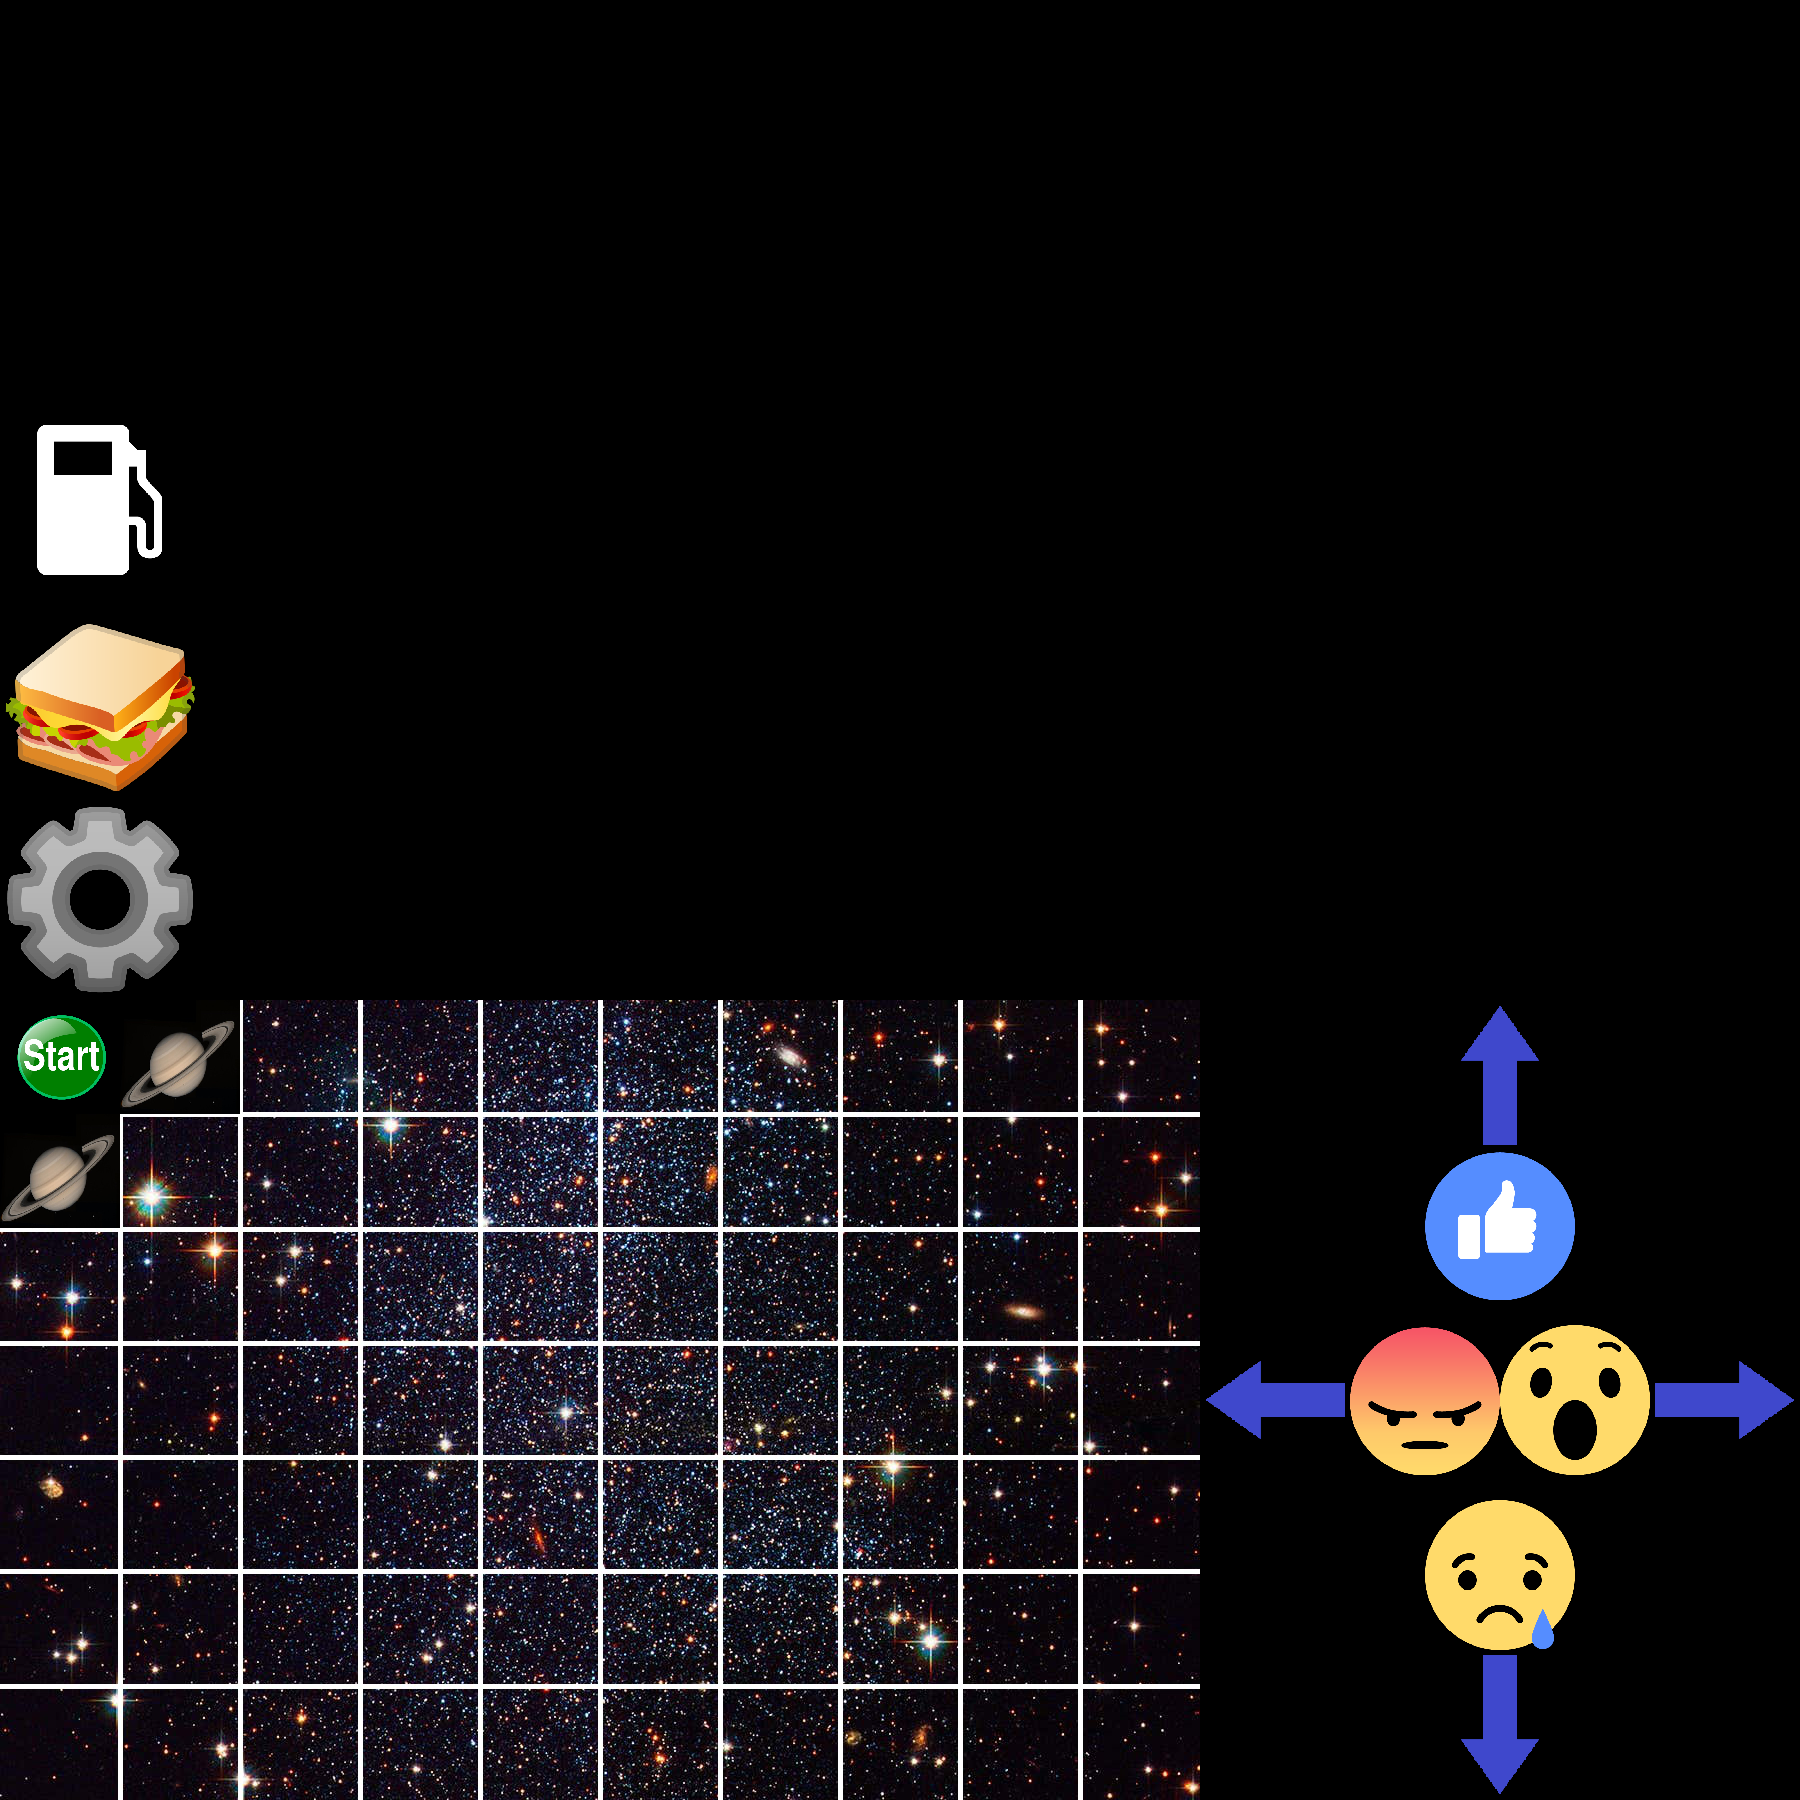
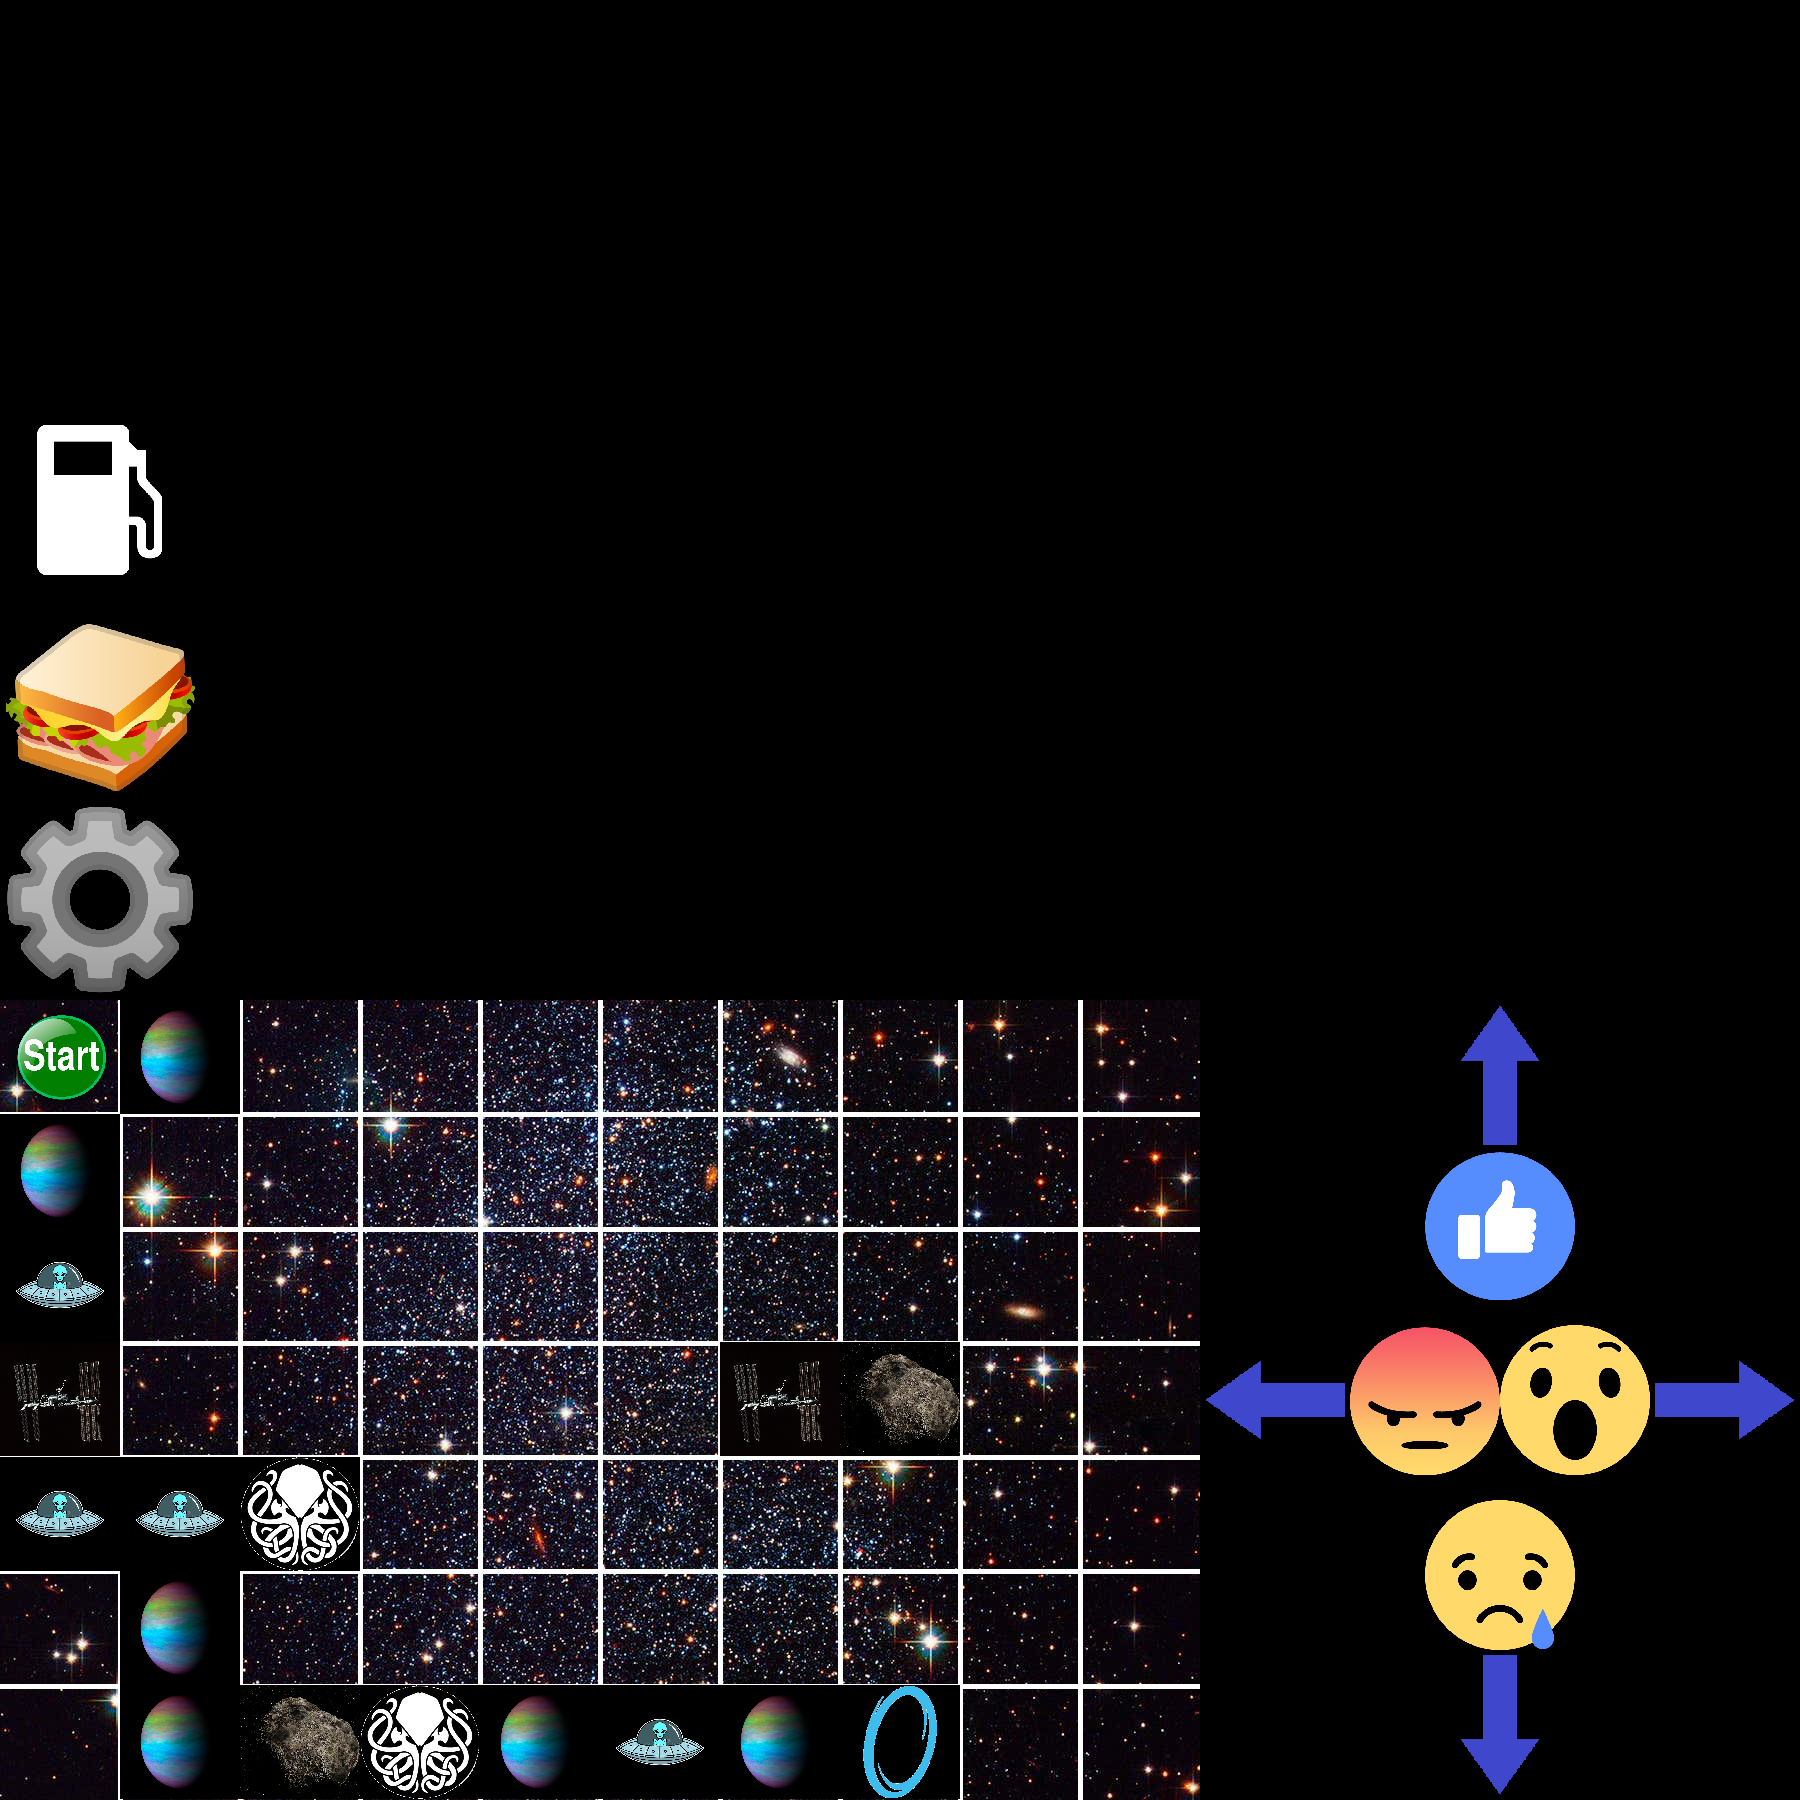
Ya casi estamos

Changed region(s): [[0.0, 0.56, 0.5289, 1.0], [0.3733, 0.7467, 0.5289, 0.8089]]

diff --git a/Space.py b/Space.py
@@ -7,6 +7,7 @@ from pathlib import Path
 import os
 import urllib.request
 import textwrap
+import random
 #import skimage.measure as skm
 #import matplotlib.pyplot as plt
 import planets
@@ -18,12 +19,12 @@ class Board:
 		self.goalLoc = 0
 		self.events = []
 		self.eventlist = []
-		self.generate_events()
-		self.img_path = 'background.png'
 		self.area = self.lenx*self.leny-2
 		self.goal = ""
 		self.set_goal()
-
+		self.generate_events()
+		self.img_path = 'background.png'
+	
 	def set_goal(self):
 		xgoal = np.random.randint(3,self.lenx)
 		ygoal = np.random.randint(3,self.leny)
@@ -32,33 +33,37 @@ class Board:
 
 	def generate_eventlist(self):
 		number = self.lenx*self.leny-2
-		self.eventlist+=np.random.sample([*planets.Planet().properties],20)
-		self.eventlist+=np.random.sample([*planets.Ship().properties],20)
-		self.eventlist+=np.random.sample([*planets.Being().properties],3)
-		self.eventlist+=np.random.sample([*planets.Spaceport().urls],11)
-		self.eventlist+=np.random.sample([*planets.Portal().urls],6)
-		self.eventlist+=np.random.sample([*planets.Asteroid().urls],6)
-		self.eventlist+=np.random.sample([*planets.BlackHole().properties],2)
+		self.eventlist+=random.sample([*planets.Planet().properties],20)
+		self.eventlist+=random.sample([*planets.Ship().properties],20)
+		self.eventlist+=random.sample([*planets.Being().properties],3)
+		self.eventlist+=random.sample([*planets.Spaceport().urls],11)
+		self.eventlist+=random.sample([*planets.Portal().urls],6)
+		self.eventlist+=random.sample([*planets.Asteroid().urls],6)
+		self.eventlist+=random.sample([*planets.BlackHole().urls],2)
 
 	def generate_events(self):
 		#TODO: cambiar probabilidad de cada tipo de evento
 		#Algoritmo de distribucion copado
 		self.generate_eventlist()
-		indexes = np.random.shuffle(list(range(self.area)))
+		indexes = list(range(self.area))
+		np.random.shuffle(indexes)
+		#print(indexes)
 		offset = 1
-		for i in range(lenx):
+		for i in range(self.lenx):
 			self.events.append([])
-			for j in range(leny):
+			for j in range(self.leny):
 				self.events[i].append([])
 				if i==0 and j ==0:
 					self.events[i][j] = "Start"
-				elif i==xgoal and j==ygoal:
+				elif i==self.goalLoc[0] and j==self.goalLoc[1]:
 					self.events[i][j] = self.goal
 					offset = 2
 				else:
-					self.events[i][j] = self.eventlist[indexes[i*leny+j-offset]]
+					#print(i,j,i*self.leny+j-offset,indexes[i*self.leny+j-offset],self.eventlist[indexes[i*self.leny+j-offset]])
+					self.events[i][j] = self.eventlist[indexes[i*self.leny+j-offset]]
 
-	def get_event_name(x,y,self):
+	def get_event_name(self,x,y):
+		#print (self)
 		return self.events[x][y]
 
 					
@@ -145,7 +150,7 @@ def get_event_from_name(name):
 		planets.Goal
 		]
 	for ic, cla in enumerate(clas):
-		if name in list(cla().properties.keys()):
+		if name in list(cla().properties.keys()) or name in list(cla().urls.keys()):
 			return cla(name)
 
 def gen_initial_image(spaceship):
@@ -211,9 +216,9 @@ def update_image(spaceship,event):
 	lenx = img.size[0]
 	leny = img.size[1]
 	if lenx > leny:
-		img = img.resize(1000,int(1000*leny/lenx))
+		img = img.resize((1000,int(1000*leny/lenx)))
 	elif leny < lenx:
-		img = img.resize(int(1000*lenx/leny),1000)
+		img = img.resize((int(1000*lenx/leny),1000))
 	else:
 		img = img.resize((1000,1000))
 	previous = add_event_image(previous,img)
@@ -300,54 +305,57 @@ def get_fontsize(text,draw,maxlenx = 800, maxleny = 200):
 	return min(int(10*maxlenx/np.mean(np.diff(pw))),int(10*maxleny/np.mean(np.diff(ph))))
 
 def get_image_from_url(url):
-	form = url.split('.')[-1]
-	urllib.request.urlretrieve(url,'event_image.{}'.format(form))
-	return 'event_image.{}'.format(form)
+	urllib.request.urlretrieve(url,'event_image')
+	return 'event_image'
 
 def main(isFirst=False):
 	initial_message = "Hola"
 
 	if isFirst:
 		#generar el tablero
-		spaceship = Spaceship(get_random_ship())
+		board  =Board()
+		spaceship = Spaceship()#get_random_ship())
 		postImage = gen_initial_image(spaceship)
-		gr, p_id = upload(initial_message,getAccessToken(),postImage)
+		#gr, p_id = upload(initial_message,getAccessToken(),postImage)
 		was_portal = False
-		np.save('data',[spaceship,gr,p_id,board,was_portal])
+		np.save('data',[spaceship,board,was_portal])
 		return True
 	else:
-		data = np.load("spaceship.npy",allow_pickle=True)
+		data = np.load("data.npy",allow_pickle=True)
 		spaceship = data[0]
-		previous_gr = data[1]
-		previous_id = data[2]
-		board = data[3]
-		was_portal = data[4]
+		#previous_gr = data[1]
+		#previous_id = data[2]
+		board = data[1]
+		was_portal = data[2]
 		if was_portal:
 			spaceship.move(np.random.randint(board.lenx),np.random.randint(board.leny))
 		else:
-			reacts = get_reactions(previous_gr,previous_id)
-			movement = get_movement_from_reactions()
+			#reacts = get_reactions(previous_gr,previous_id)
+			#movement = get_movement_from_reactions()
+			movement = [-1,0]
 			spaceship.move(spaceship.x+movement[0],spaceship.y+movement[1])
 			spaceship.modify_fuel(-10)
 
-		new_event = gen_event_from_name(board.get_event_name(spaceship.x,spaceship.y))
-		spaceship,message = new_event.action(spaceship)
+		event = get_event_from_name(board.get_event_name(spaceship.x,spaceship.y))
+		spaceship,message = event.action(spaceship)
 
 		if spaceship.isHome:
-			message += "Congrats..."
-			victory_path = gen_goal_image(spaceship,event)
-			gr, p_id = upload(message,getAccessToken(),img_path)
+			message += '\nCongrats...'
+			victory_path = update_image(spaceship,event)
+			gen_goal_image()
+			#gr, p_id = upload(message,getAccessToken(),victory_path)
 			return False
 		#message = gen_message(new_event,flavor_text)
 		if spaceship.is_dead():
 			message += '\nYou died...'
-			game_over_path = gen_gameover_image(spaceship,event)
-			gr, p_id = upload(message,getAccessToken(),game_over_im)
-			np.save('data',[spaceship,gr,p_id,board,event.get_type()=="Portal"])
+			game_over_path = update_image(spaceship,event)
+			gen_gameover_image()
+			#gr, p_id = upload(message,getAccessToken(),game_over_path)
+			np.save('data',[spaceship,board,event.get_type()=="Portal"])
 			return False
 
 		img_path = update_image(spaceship,event)
-		gr, p_id = upload(message,getAccessToken(),img_path)
-		np.save('data',[spaceship,gr,p_id,board,event.get_type()=="Portal"])
+		#gr, p_id = upload(message,getAccessToken(),img_path)
+		np.save('data',[spaceship,board,event.get_type()=="Portal"])
 		#TODO: Comments w/current state & SPAAAAAAAAAAAAAACE
 		return True

diff --git a/planets.py b/planets.py
@@ -66,6 +66,10 @@ class Goal(Event):
 		if name:
 			self.set_url()
 
+	def good_action(self,spaceship):
+		spaceship.isHome = True 
+		return spaceship
+
 class Planet(Event):
 	def __init__(self,name=""):
 		super().__init__(name)
@@ -399,6 +403,7 @@ class Spaceport(Event):
 
 	def good_action(self,spaceship):
 		spaceship.modify_fuel(100)
+		return spaceship
 	
 class Being(Event):
 	def __init__(self,name=""):

diff --git a/runSpace.py b/runSpace.py
@@ -1,7 +1,6 @@
 import Space
 import time
 
-
 seguir = True
 while seguir:
 	seguir = Space.main()
